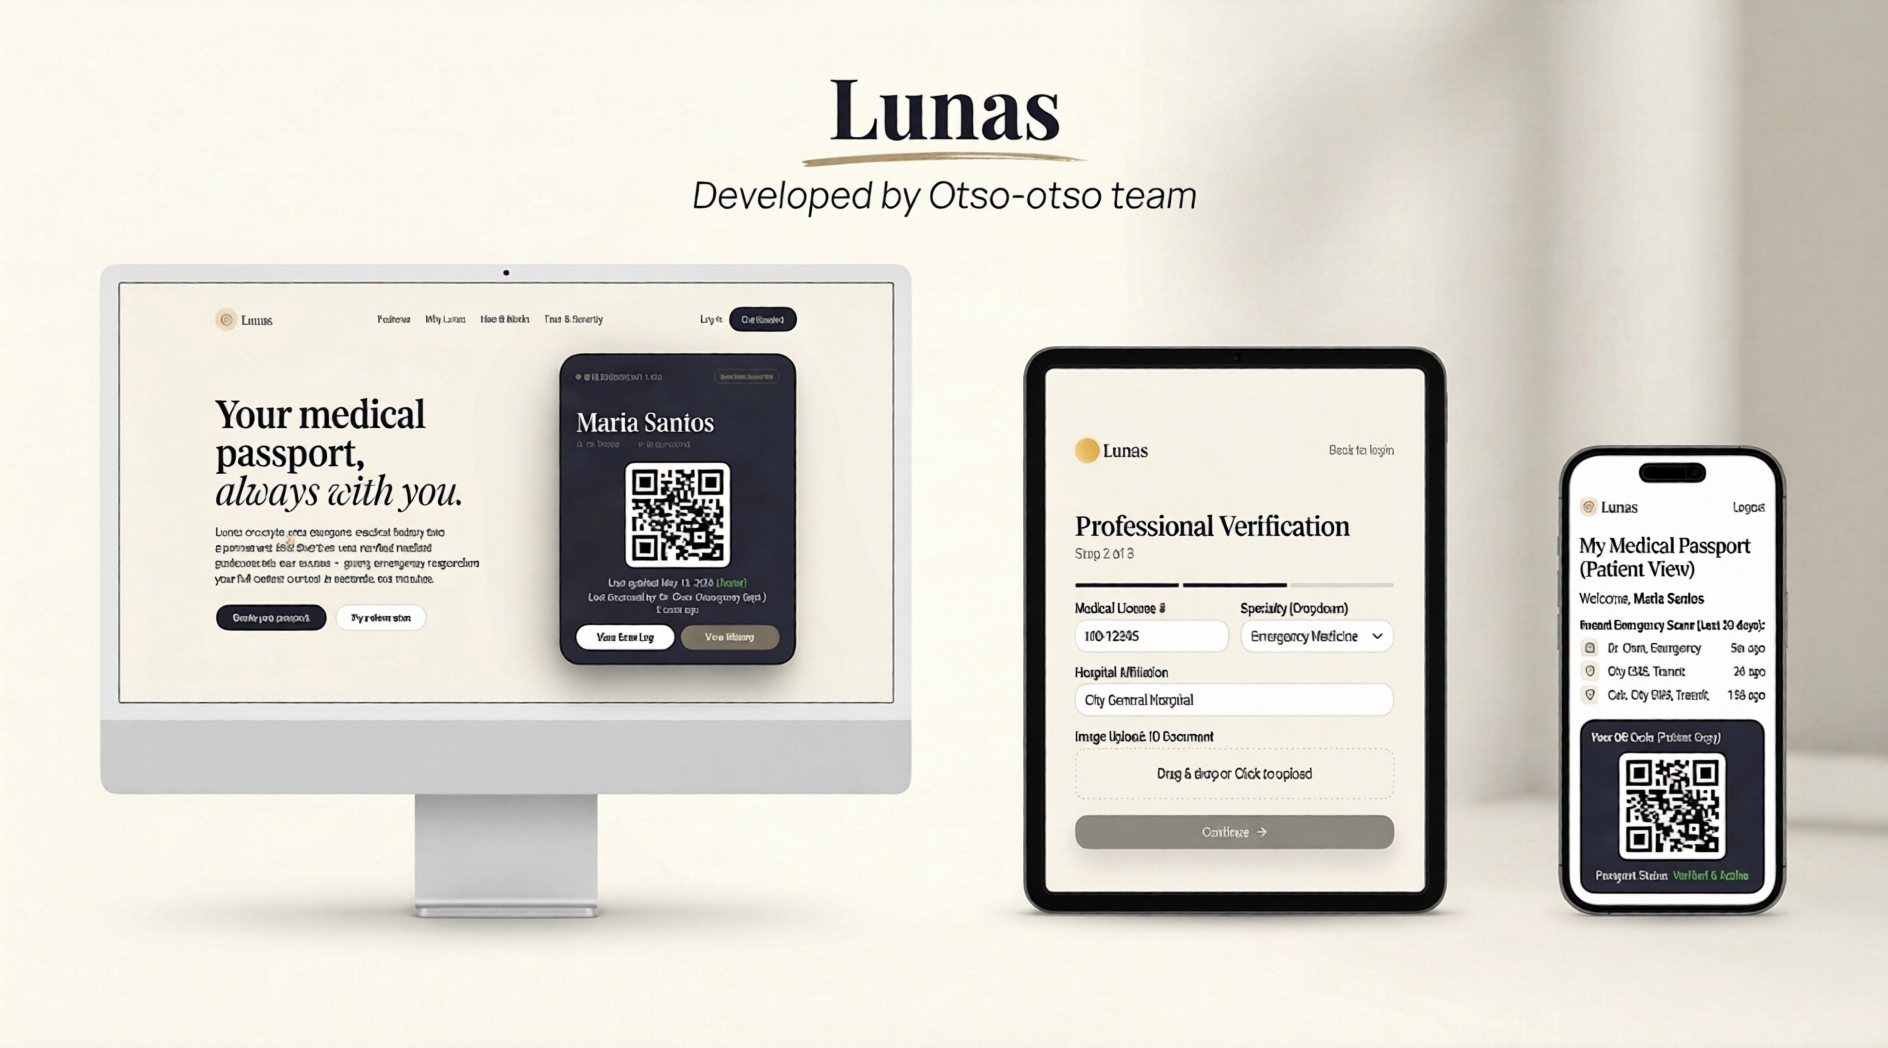
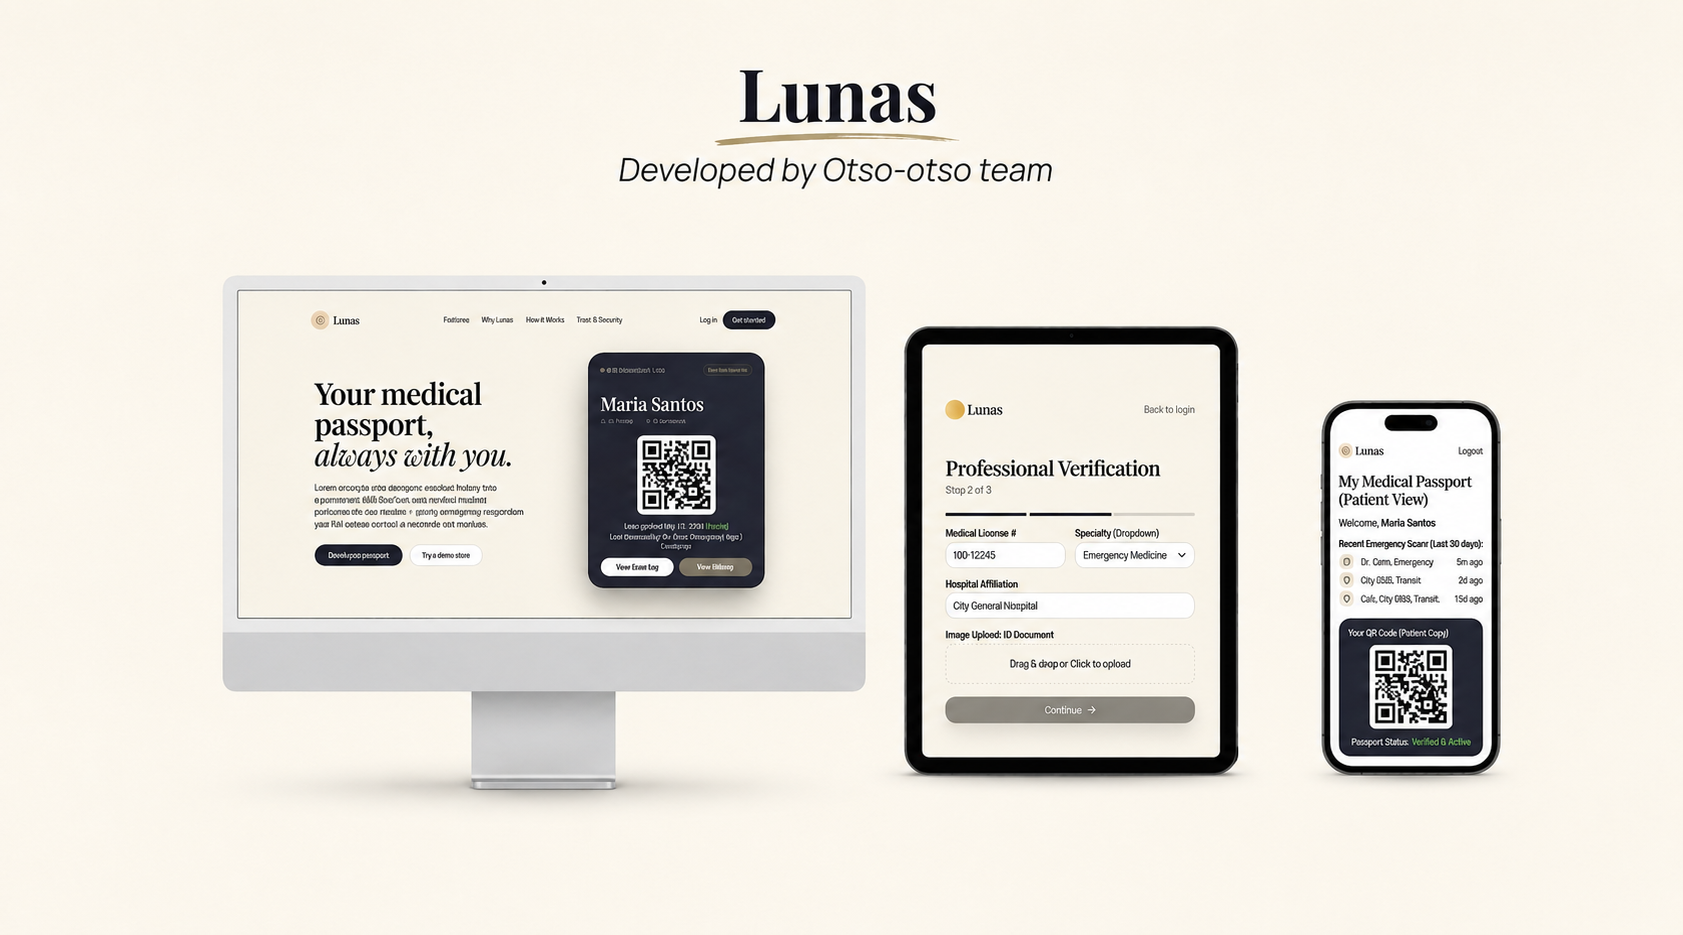
feat: add FullStackSection component and Lunas project image asset

diff --git a/components/fullstack-section.tsx b/components/fullstack-section.tsx
@@ -135,11 +135,13 @@ export function FullStackSection() {
                     key={`${src}-${i}`}
                     className={cn(
                       "group relative w-full overflow-hidden rounded-xl border border-black/5 shadow-[0_2px_10px_-3px_rgba(0,0,0,0.07),0_4px_6px_-2px_rgba(0,0,0,0.05)] transition-all hover:scale-[1.01] hover:shadow-xl",
-                      src.includes("redquestImage-3") 
-                        ? "bg-gradient-to-r from-[#D8E7F8] to-[#E1EDF9]" 
-                        : src.includes("LunasImage")
-                        ? "bg-[#F8F2EA]"
-                        : "bg-white",
+                      src.includes("redquestImage-3")
+                        ? "bg-gradient-to-r from-[#D8E7F8] to-[#E1EDF9]"
+                        : src.includes("LunasImage2")
+                          ? "bg-[#FBF9EE]"
+                          : src.includes("LunasImage")
+                            ? "bg-[#F8F2EA]"
+                            : "bg-white",
                     )}
                   >
                     <img
